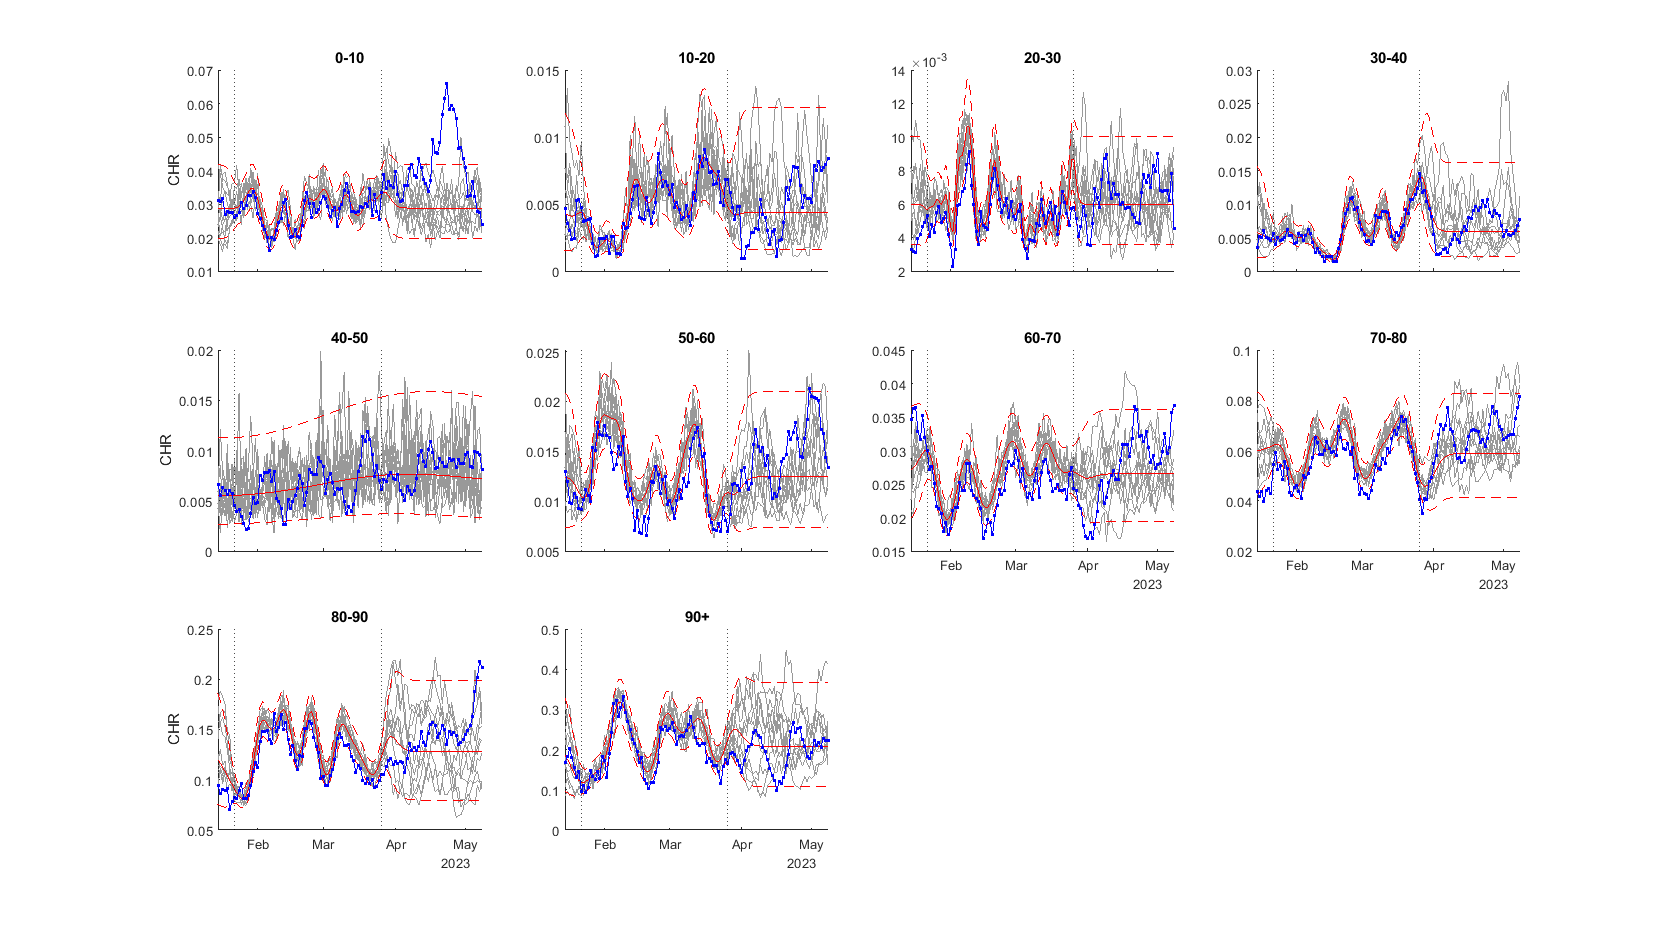
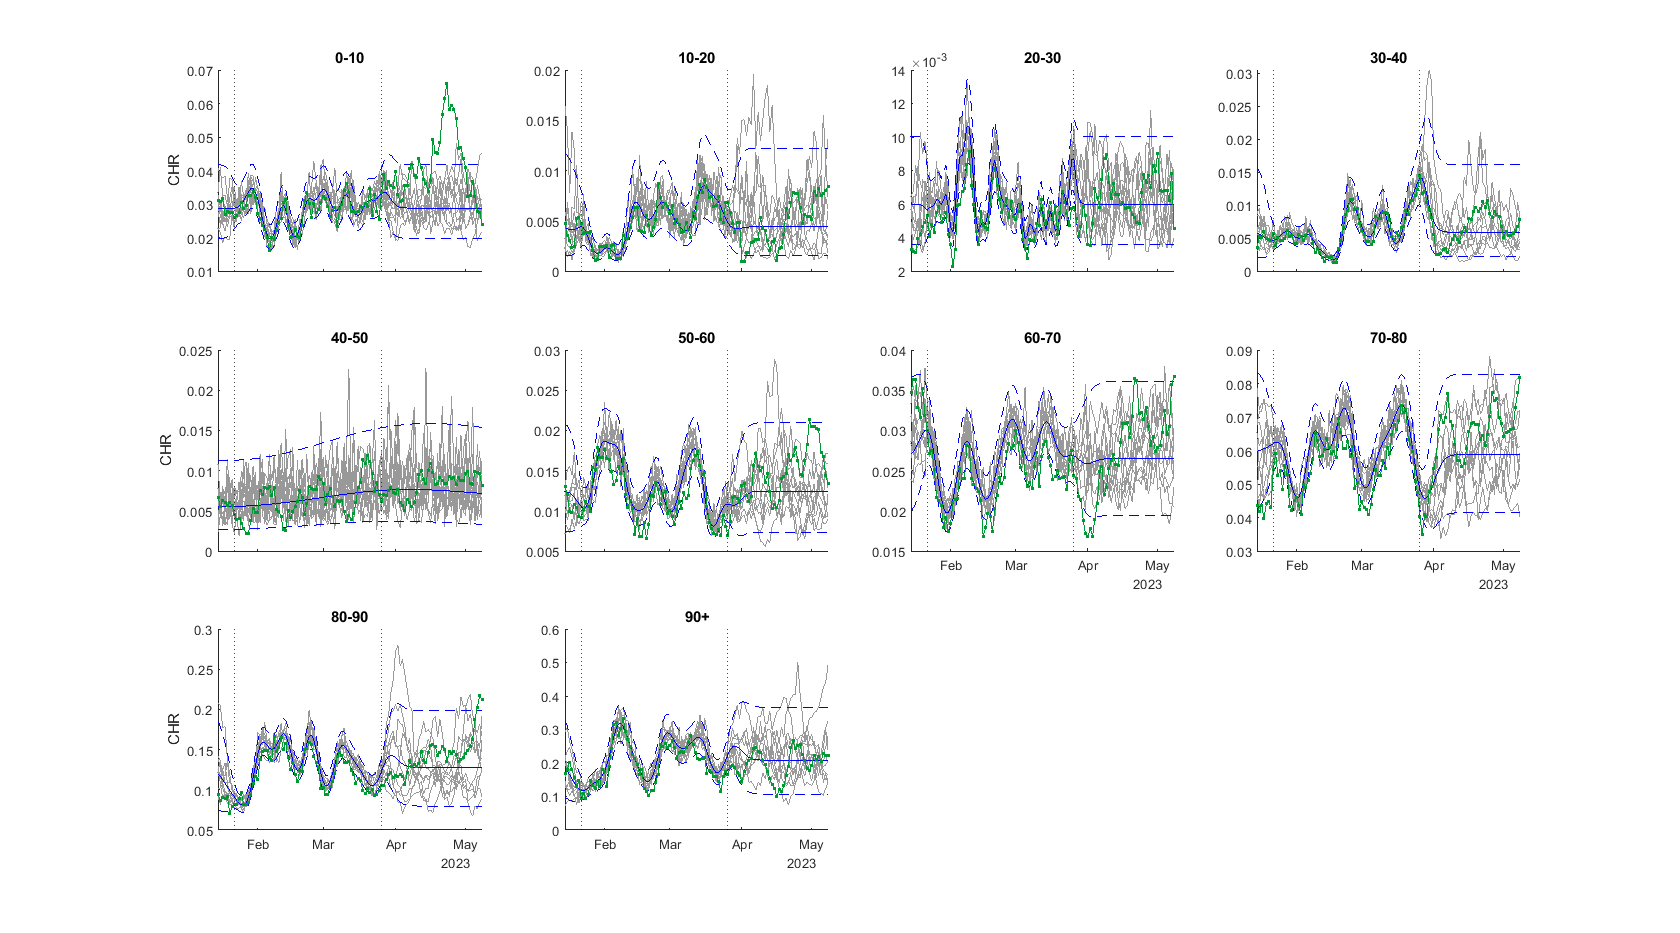
Minor plotting updates

diff --git a/makePlots.m b/makePlots.m
@@ -2,7 +2,7 @@ function h = makePlots(results, tMin, tMax, highlightCIFlag, graphTitle)
 
 tHospLag = 0;                  % Grey out most recent hospital admission data for this many days to show points most likely to be icomplete due to reporting lag
 greyCol = [0.6 0.6 0.6];
-
+greenCol = [0 0.6 0.2];
 
 % h = figure;
 % h.Position = [   131         169        1226         698];
@@ -19,35 +19,41 @@ fd = results.forecastDate(~isnat(results.forecastDate));
 uniqueForecastFlag = length(unique(fd)) == 1;
 
 
+
 h = figure;
-h.Position = [   131         169        1226         698];
+h.Position = [    1          41        1680         933];
 subplot(2, 2, 1)
-plot(results.t, results.nCases, 'bo')
+plot(results.t, results.Cq(:, 1:2:end), 'Color', greyCol);
 hold on
+plot(results.t, results.Cq(:, 10), 'b-');
 if highlightCIFlag
    iOut = (results.casesInFlag == 0);
-   plot(results.t(iOut), results.nCases(iOut), 'ro', 'HandleVisibility', 'off') 
+   plot(results.t(~iOut), results.nCases(~iOut), '.', 'color', greenCol);
+   plot(results.t(iOut), results.nCases(iOut), 'r.');
+   hc = get(gca, 'Children');
+   legend(hc([3 4 2 1]), "forecast (median)", "forecast (quantiles)", "data (inside 90% interval)", "data (outside 90% interval)",  'location', 'NorthEast');
+else
+   plot(results.t, results.nCases, '.', 'color', greenCol);
+   hc = get(gca, 'Children');
+   legend(hc([2 3 1]), "forecast (median)", "forecast (quantiles)", "data", 'location', 'NorthEast');
 end
-plot(results.t, results.Cq(:, 10), 'b-')
-plot(results.t, results.Cq(:, 1:2:end), 'Color', greyCol)
 if uniqueForecastFlag
-   xline( fd, 'k:');
+   xline( fd(1), 'k:', 'HandleVisibility', 'off');
 end
 ylabel('daily cases')
 xlim([tMin, tMax])
 yl = ylim; yl(1) = 0; ylim(yl);
-legend('data', 'forecast median',  'forecast quantiles', 'location', 'NorthEast')
 title( "(a) " + graphTitle + "cases")
 
 subplot(2, 2, 2)
-plot(results.t, results.nCasesSmoothed, 'bo')
+plot(results.t(results.t <= tMax-3), results.Cq_smoothed(results.t <= tMax-3, 1:2:end), 'Color', greyCol)
 hold on
+plot(results.t(results.t <= tMax-3), results.Cq_smoothed(results.t <= tMax-3, 10), 'b-')                    % omit last 3 points due to bias in moving average    
+plot(results.t, results.nCasesSmoothed, '.', 'color', greenCol)
 if highlightCIFlag
    iOut = (results.casesSmoothedInFlag == 0);
-   plot(results.t(iOut), results.nCasesSmoothed(iOut), 'ro', 'HandleVisibility', 'off') 
+   plot(results.t(iOut), results.nCasesSmoothed(iOut), 'r.') 
 end
-plot(results.t(results.t <= tMax-3), results.Cq_smoothed(results.t <= tMax-3, 10), 'b-')                    % omit last 3 points due to bias in moving average                   
-plot(results.t(results.t <= tMax-3), results.Cq_smoothed(results.t <= tMax-3, 1:2:end), 'Color', greyCol)
 if uniqueForecastFlag
    xline( fd, 'k:');
 end
@@ -58,15 +64,15 @@ title( "(b) " + graphTitle + "cases (7DRA)")
 
 iHospLag = find(~isnan(results.nHosp_DOA), 1, 'last')-tHospLag;     % Index of last existing datapoint minus number of days to "grey out" 
 subplot(2, 2, 3)
-plot(results.t(1:iHospLag), results.nHosp_DOA(1:iHospLag), 'bo')
+plot(results.t, results.Aq(:, 1:2:end), 'Color', greyCol)
 hold on
+plot(results.t, results.Aq(:, 10), 'b-')
+plot(results.t(1:iHospLag), results.nHosp_DOA(1:iHospLag), '.', 'color', greenCol)
 if highlightCIFlag
    iOut = (results.admInFlag == 0);
-   plot(results.t(iOut), results.nHosp_DOA(iOut), 'ro', 'HandleVisibility', 'off') 
+   plot(results.t(iOut), results.nHosp_DOA(iOut), 'r.') 
 end
-plot(results.t(iHospLag+1:end), results.nHosp_DOA(iHospLag+1:end), 'o', 'Color', greyCol, 'HandleVisibility', 'off')
-plot(results.t, results.Aq(:, 10), 'b-')
-plot(results.t, results.Aq(:, 1:2:end), 'Color', greyCol)
+plot(results.t(iHospLag+1:end), results.nHosp_DOA(iHospLag+1:end), '.', 'Color', greyCol, 'HandleVisibility', 'off')
 if uniqueForecastFlag
    xline( fd, 'k:');
 end
@@ -76,14 +82,14 @@ yl = ylim; yl(1) = 0; ylim(yl);
 title("(c) " +  graphTitle + "admissions")
 
 subplot(2, 2, 4)
-plot(results.t, results.Hosp, 'bo')
+plot(results.t, results.Hq(:, 1:2:end), 'Color', greyCol)
 hold on
+plot(results.t, results.Hq(:, 10), 'b-')
+plot(results.t, results.Hosp, '.', 'color', greenCol)
 if highlightCIFlag
    iOut = (results.occInFlag == 0);
-   plot(results.t(iOut), results.Hosp(iOut), 'ro', 'HandleVisibility', 'off') 
+   plot(results.t(iOut), results.Hosp(iOut), 'r.') 
 end
-plot(results.t, results.Hq(:, 10), 'b-')
-plot(results.t, results.Hq(:, 1:2:end), 'Color', greyCol)
 if uniqueForecastFlag
    xline( fd, 'k:');
 end

diff --git a/testGPmodels.m b/testGPmodels.m
@@ -90,6 +90,7 @@ pCasesLow = pCasesModelled - 1.96*squeeze(std(pCasesSamp));
 
 % Plotting
 greyCol = [0.6 0.6 0.6];
+greenCol = [0 0.6 0.2];
 myColors = colororder;
 myColors = [myColors; 0 0 0; 1 0 0; 0 1 0; 0.3 0.3 0; 0.3 0 0.3; 0 0.3 0.3; 0.3 0 0; 0 0.3 0; 0 0 0.3];
 
@@ -180,10 +181,10 @@ for iAge = 1:nAges
     subplot(3, 4, iAge)
     hold on
     plot(t, pCasesSamp(1:nToPlot, :, iAge), 'Color', greyCol)
-    plot(t, pCasesModelled(:, iAge), 'r-')
-    plot(t, pCasesLow(:, iAge), 'r--')
-    plot(t, pCasesHi(:, iAge), 'r--')
-    plot(epiDataTest.t, pCases(:, iAge), 'b.-')
+    plot(t, pCasesModelled(:, iAge), 'b-')
+    plot(t, pCasesLow(:, iAge), 'b--')
+    plot(t, pCasesHi(:, iAge), 'b--')
+    plot(epiDataTest.t, pCases(:, iAge), '.-', 'color', greenCol)
     if mod(iAge, 4) == 1
         ylabel('proportion of cases in age group')
     end
@@ -204,10 +205,10 @@ for iAge = 1:nAges
     subplot(3, 4, iAge)
     hold on
     plot(t, pHospSamp(1:nToPlot, :, iAge), 'Color', greyCol)
-    plot(t, pHospModelled(:, iAge), 'r-')
-    plot(t, pHospLow(:, iAge), 'r--')
-    plot(t, pHospHi(:, iAge), 'r--')
-    plot(epiDataTest.t, pHosp(:, iAge), 'b.-')
+    plot(t, pHospModelled(:, iAge), 'b-')
+    plot(t, pHospLow(:, iAge), 'b--')
+    plot(t, pHospHi(:, iAge), 'b--')
+    plot(epiDataTest.t, pHosp(:, iAge), '.-', 'color', greenCol)
     if mod(iAge, 4) == 1
         ylabel('CHR');
     end

diff --git a/compareForecast.m b/compareForecast.m
@@ -128,7 +128,7 @@ for iComp = 1:nComps
     perf.occBias(iComp) = nanmean(forecastPart.bias_Ht);
     
     % Make n-step ahead plots
-    h = makePlots(forecastPart, min(forecastPart.t)-14, max(forecastPart.t), 1, sprintf('%i day ahead forecast ', nStepAhead(iComp)) );
+    h = makePlots(forecastPart, min(forecastPart.t), max(forecastPart.t), 1, sprintf('%i day ahead forecast ', nStepAhead(iComp)) );
     if savLbl ~= ""
         fSav = sprintf("figures/n%idayAhead", nStepAhead(iComp)) + savLbl + ".png";
         saveas(h, fSav);

diff --git a/runAll.m b/runAll.m
@@ -3,6 +3,9 @@
 clear 
 close all
 
+rng(56345);     % for reproducibility
+
+
 %%%%%%%%%%%%%%%%%%%%%%%%%%%%%%%%%%%%%%%%%%%%%%%%%%%%%%%%%%%%%%%%%%%%%%%
 % Basic parameters 
 

diff --git a/runLatest.m b/runLatest.m
@@ -3,6 +3,9 @@
 clear 
 close all
 
+rng(56345);     % for reproducibility
+
+
 %%%%%%%%%%%%%%%%%%%%%%%%%%%%%%%%%%%%%%%%%%%%%%%%%%%%%%%%%%%%%%%%%%%%%%%
 % Basic parameters 
 
